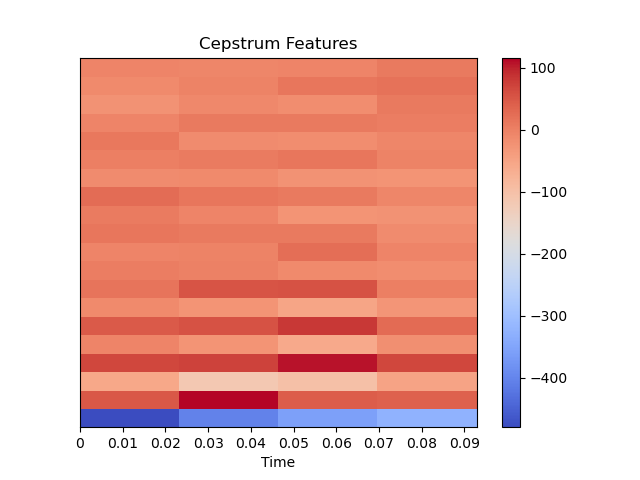
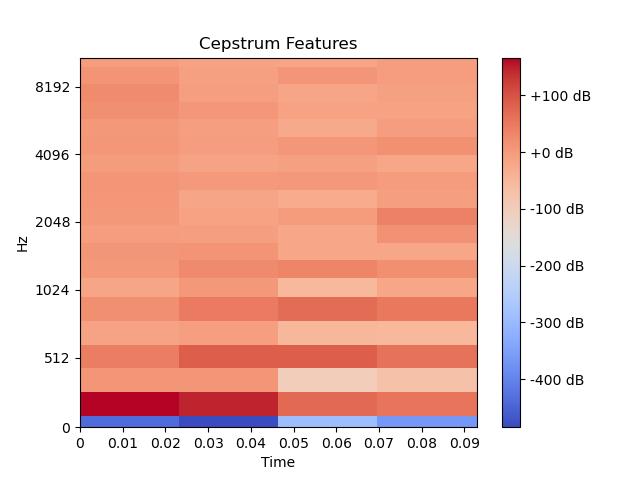
edit spectrogram and spectral coeff plot to include frequency and db

diff --git a/data_processing.py b/data_processing.py
@@ -135,6 +135,7 @@ def get_feature(sound_path: str, feature_enum: Feature, plot_result: bool):
     result = None
     title = ""
 
+
     if feature_enum == Feature.Cepstrum:
         result = librosa.feature.mfcc(y=y, sr=sr, n_fft=512)
         title = "Cepstrum Features"
@@ -145,8 +146,8 @@ def get_feature(sound_path: str, feature_enum: Feature, plot_result: bool):
 
     if plot_result:
         fig, ax = plt.subplots()
-        img = librosa.display.specshow(result, x_axis='time', ax=ax)
-        fig.colorbar(img, ax=ax)
+        img = librosa.display.specshow(result, x_axis='time', y_axis='mel', ax=ax, sr=sr)
+        fig.colorbar(img, ax=ax, format="%+2.f dB")
         ax.set(title=title)
         plt.savefig(os.path.join(image_path, title))
         plt.show()
